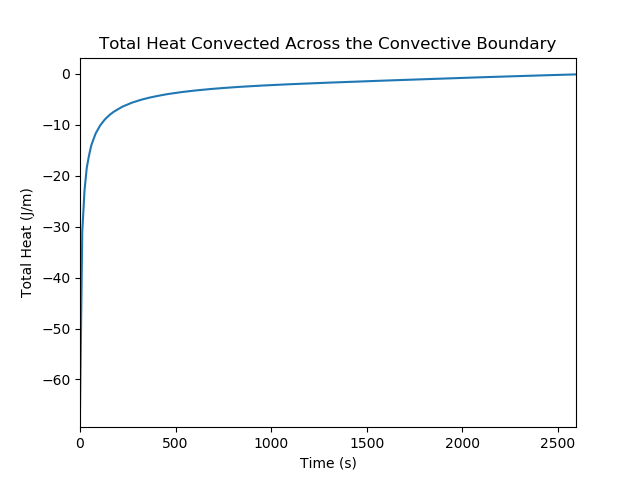
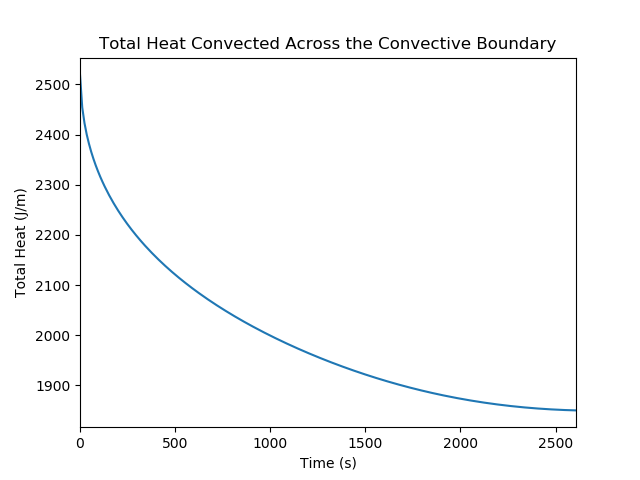
Total heat convection for Figure 4.

diff --git a/Problem-Set-5/PSet-5.py b/Problem-Set-5/PSet-5.py
@@ -123,17 +123,17 @@ plt.xlim(0, max(x))
 plt.savefig(fileName + "/images/" + fileName + "-Figure-" + str(figNum) + ".png")
 plt.show()
 
+
 figNum = 4
 plt.figure(figNum)
 q = []
-for state_num in range(1, len(history)):
+for state_num in range(len(history)):
     m = 0
-    delta_T= 0
+    delta_T = 0
     for n in range(height):
-        delta_T += history[state_num][m, n] - history[state_num - 1][m, n]
+        delta_T += history[state_num][m, n] - T_inf
     
     q_total_state = h * side_length * delta_T
-
     q.append(q_total_state)
 
 x = dt * np.linspace(0, (len(q) - 1), len(q))
@@ -144,7 +144,6 @@ plt.title("Total Heat Convected Across the Convective Boundary")
 plt.xlim(0, max(x))
 plt.savefig(fileName + "/images/" + fileName + "-Figure-" + str(figNum) + ".png")
 plt.show()
-
 
 
 
